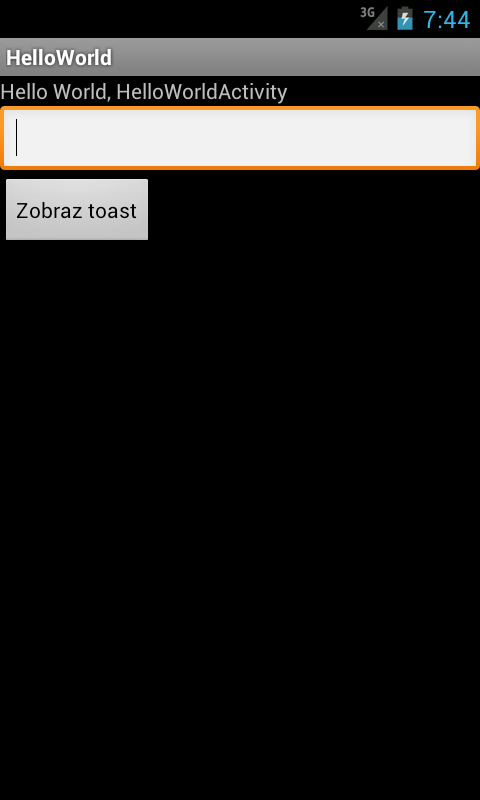
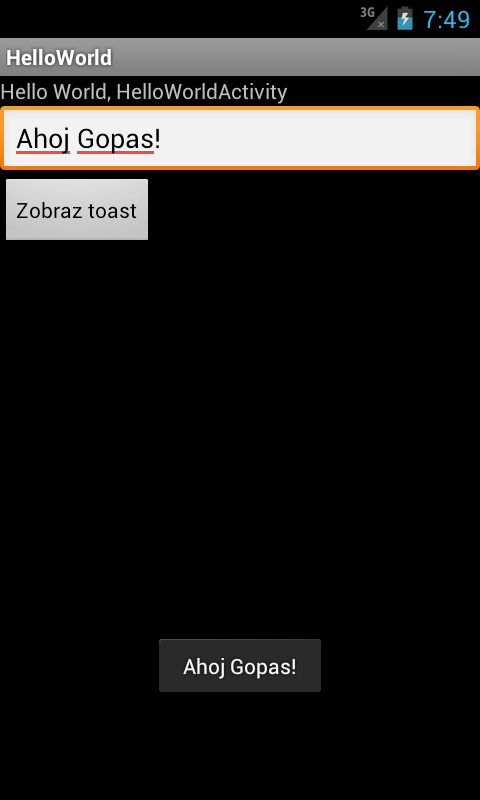
added hello_toast image

Changed region(s): [[0.3125, 0.7812, 0.6875, 0.875], [0.0312, 0.1562, 0.3438, 0.2188], [0.9375, 0.0, 1.0, 0.0312]]

diff --git a/HelloToast/readme.md b/HelloToast/readme.md
@@ -37,3 +37,5 @@ HelloWorld example
 ==================
 
 * You will learn to create Android project with one activity (the screen interacting with user).
+
+<img src="http://raw.githubusercontent.com/wojta/training-examples/master/_images/hello_toast.png" />
